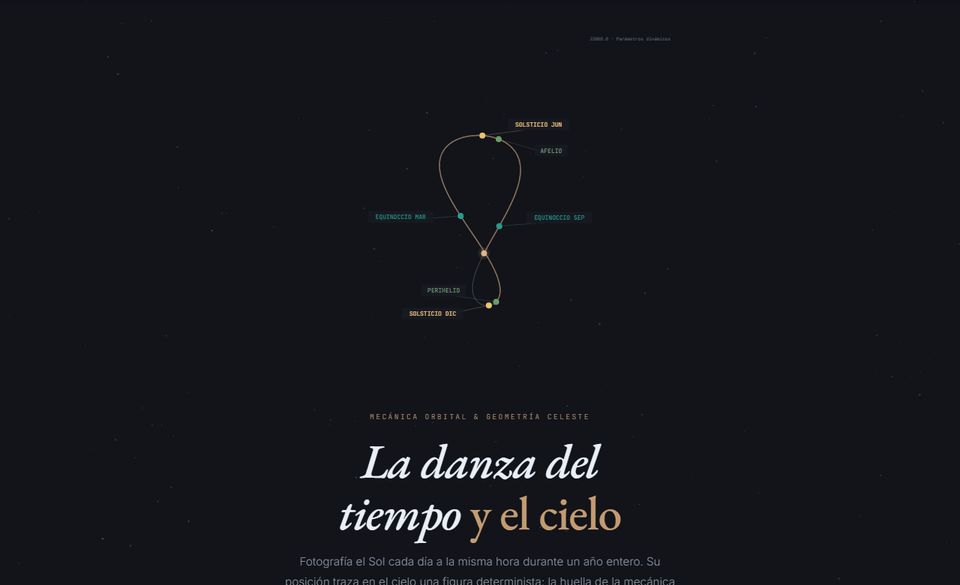
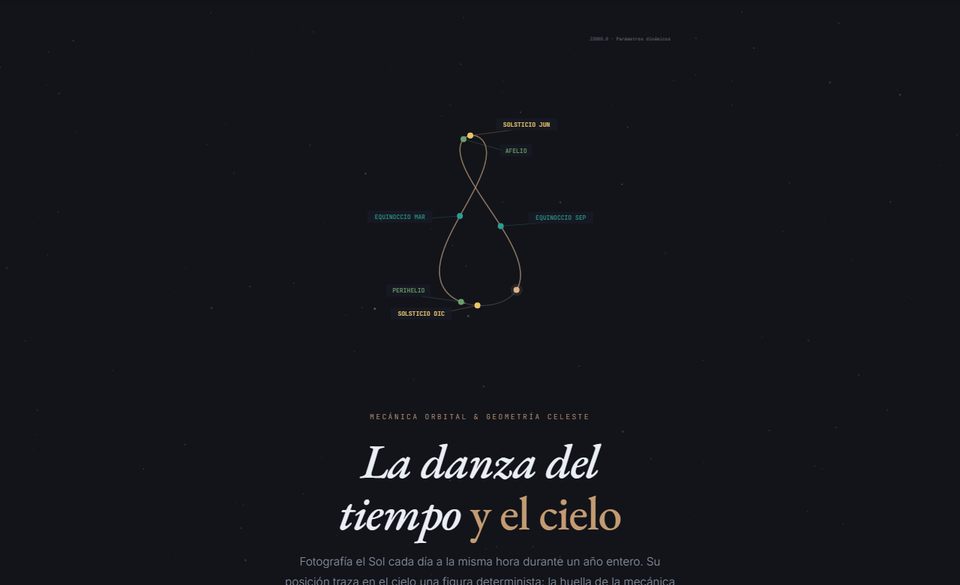
Fix equation of time sign error and update preview
Obliquity term sign was inverted in all three E(t) calculations.
Meeus (1998, ch. 27) requires +tan^2(eps/2)*sin(2L), not minus.

Before: Feb 12 showed +3.8 min, Nov 3 showed -3.5 min (inverted).
After: Feb 12 gives -14.0 min, Nov 3 gives +16.2 min (< 0.3 min
error vs Astronomical Almanac).

Also updates preview.png with corrected analema figure-8 shape.

diff --git a/scripts.js b/scripts.js
@@ -76,8 +76,8 @@
       (5 * e * e / 4) * Math.sin(2 * M) -
       (13 * e * e * e / 12) * Math.sin(3 * M);
     const obl =
-      -TE2 * TE2 * Math.sin(2 * lam) +
-      (TE4 / 2) * Math.sin(4 * lam) -
+      TE2 * TE2 * Math.sin(2 * lam) -
+      (TE4 / 2) * Math.sin(4 * lam) +
       (TE6 / 3) * Math.sin(6 * lam);
     return exc + obl;
   }
@@ -104,8 +104,8 @@
         (5 * ecc * ecc / 4) * Math.sin(2 * M) -
         (13 * ecc * ecc * ecc / 12) * Math.sin(3 * M);
       const obl =
-        -t2 * t2 * Math.sin(2 * lam) +
-        (t4 / 2) * Math.sin(4 * lam) -
+        t2 * t2 * Math.sin(2 * lam) -
+        (t4 / 2) * Math.sin(4 * lam) +
         (t6 / 3) * Math.sin(6 * lam);
       const eqT = exc + obl;
       const decl = Math.asin(Math.sin(epsRad) * Math.sin(lam));
@@ -304,7 +304,7 @@
         );
         const lam = (nu + LON_PERIHELION) % TAU;
         const exc = -2 * ecc * Math.sin(M) + (5 * ecc * ecc / 4) * Math.sin(2 * M) - (13 * ecc * ecc * ecc / 12) * Math.sin(3 * M);
-        const obl = -t2 * t2 * Math.sin(2 * lam) + (t4 / 2) * Math.sin(4 * lam) - (t6 / 3) * Math.sin(6 * lam);
+        const obl = t2 * t2 * Math.sin(2 * lam) - (t4 / 2) * Math.sin(4 * lam) + (t6 / 3) * Math.sin(6 * lam);
         const eqT = exc + obl;
         const decl = Math.asin(Math.sin(epsRad) * Math.sin(lam));
         pts.push({ x: eqT, y: decl, em: eqT * (180 / Math.PI) * 4, dd: decl * 180 / Math.PI, day: d });